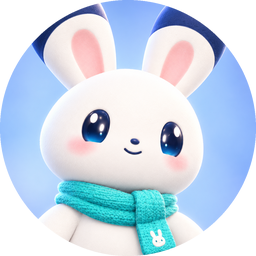
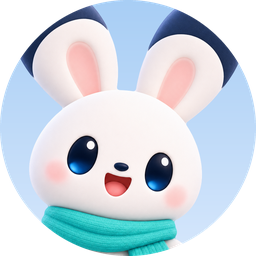
The live 3D Mochi tuned toward the newer art, with the same model and rig: deep navy ears, deeper scarf, darker eyes and a resting open smile (D130)

diff --git a/Resources/Companions3D/characters/mochi.js b/Resources/Companions3D/characters/mochi.js
@@ -29,9 +29,9 @@ export default {
       float turq = smoothstep(0.07, 0.18, min(s.g - s.r, s.b - s.r));
       float pink = earM * smoothstep(0.03, 0.08, s.r - s.g) * (1.0 - navy);
       c = vec3(0.93, 0.925, 0.92);
-      c = mix(c, tex * vec3(0.97, 1.03, 1.03), turq);
+      c = mix(c, tex * vec3(0.42, 0.74, 0.74), turq);
       c = mix(c, mix(tex, vec3(1.0, 0.62, 0.68), 0.35), pink);
-      c = mix(c, vec3(0.010, 0.030, 0.19), navy);
+      c = mix(c, vec3(0.006, 0.012, 0.06), navy);
       float plushH = tri(uPlush, p, nR, 6.5);
       float knitH = tri(uKnit, p * vec3(1.0, 1.25, 1.0), nR, 4.2);
       bumpH = mix(plushH * 0.26, knitH, turq) * 0.012;
@@ -39,7 +39,7 @@ export default {
       c *= mix(0.985 + 0.03 * plushH, 0.72 + 0.4 * knitH, turq);
       rough = mix(0.8, 0.93, turq);
       // White velvet sheen would wash the navy tips out to lavender: tint it down there.
-      sheenTint = mix(vec3(1.0), vec3(0.12, 0.16, 0.35), navy);
+      sheenTint = mix(mix(vec3(1.0), vec3(0.3, 0.5, 0.5), turq), vec3(0.05, 0.07, 0.14), navy);
       inner = 1.0 - 0.6 * navy;
       // Light glowing through the thin ears, warm and pink at the inner ear.
       glow = earM * (1.0 - navy) * mix(vec3(0.05, 0.035, 0.035), vec3(0.11, 0.045, 0.06), pink);`,
@@ -52,10 +52,23 @@ export default {
     region: (x, y, z) => z > 0.08 && y > -0.3 && y < 0.26,
     // Nose and mouth keep a clear gap: the mouth never reaches up to the nose.
     layout: {
-      eye: { x: 0.2, y: -0.052, w: 0.148, h: 0.194, depth: 0.036 },
-      nose: { y: -0.116, w: 0.044, h: 0.027 },
-      mouth: { y: -0.168 },
-      blush: { x: 0.3, y: -0.142, w: 0.105, h: 0.062 },
+      eye: { x: 0.195, y: -0.05, w: 0.165, h: 0.224, depth: 0.042, sink: 0.34 },
+      nose: { y: -0.116, w: 0.05, h: 0.03, color: '#0a1638' },
+      mouth: { y: -0.176, scale: 1.35, tongue: 0.8 },
+      blush: { x: 0.31, y: -0.146, w: 0.105, h: 0.062 },
+    },
+    iris: { deep: [0.002, 0.006, 0.028], rim: [0.005, 0.016, 0.08], glow: [0.02, 0.2, 0.62], glowAmt: 0.4, env: 0.08, coat: 0.12 },
+    // A clean eye, as in the brand art: one big highlight and a small one. On this dark iris a sparkle's cross reads as a scratch.
+    twinkle: 'never',
+    colors: { mouth: '#d24d5c', mouthDeep: '#9c2a3b', tongue: '#ffa3a8', tongueEdge: '#f57f88', lip: '#7a1d30' },
+    // At rest and when smiling, an open smile, as in the brand art (D130). Every other feeling is the shared one.
+    moods: {
+      neutral: { mouthOpen: 0.42, smile: 0.95, mouthWidth: 0.5, blush: 0.8 },
+      smile: { mouthOpen: 0.46, smile: 1, mouthWidth: 0.52, blush: 0.85, lidBottom: 0 },
+      // The lower lid's edge is straight: on these bigger eyes it reads as a cut.
+      happy: { lidBottom: 0 },
+      shy: { lidBottom: 0 },
+      oops: { lidBottom: 0 },
     },
   },
 

diff --git a/Resources/Companions3D/engine/face.js b/Resources/Companions3D/engine/face.js
@@ -6,6 +6,8 @@
 //    `layout.brow: false` paints no brows. `paintRoughness` makes the painted layer matte (felt, linen,
 //    stone), `layout.mouth.cat` a cat's ω whenever it smiles closed, and `twinkle: false` drops the idle
 //    twinkle cross (engine.js) where only round highlights belong.
+//    Also: `moods` changes a feeling's face for this character (Mochi rests with an open smile), `twinkle: 'never'` drops every
+//    sparkle's cross, `iris.env` and `iris.coat` quiet an eye's reflections, `mouth.tongue` sets how far down the tongue rests.
 //  - screen: everything glows on a dark visor (Spark): eyes, lids and mouth are light, painted;
 //    `mouthGlow` gives the mouth a light of its own (a pink smile under blue-white eyes),
 //    `layout.mouth.scale` sizes it, and `softGlow` blurs the halos smoothly (the stepped passes read as rings up close).
@@ -359,9 +361,10 @@ export class Face {
     g.addColorStop(0, C.mouthDeep); g.addColorStop(1, C.mouth);
     ctx.fillStyle = g; ctx.fill(outline);
     const tg = ctx.createRadialGradient(cx, top + h * 0.95, 0, cx, top + h * 0.95, w * 0.42);
-    tg.addColorStop(0, C.tongue); tg.addColorStop(1, '#e8566a');
+    tg.addColorStop(0, C.tongue); tg.addColorStop(1, C.tongueEdge ?? '#e8566a');
     ctx.fillStyle = tg;
-    ctx.beginPath(); ctx.ellipse(cx, top + h * 0.98, w * 0.34, h * 0.4, 0, 0, Math.PI * 2); ctx.fill();
+    // `mouth.tongue`: how far down it rests, as a share of the mouth's height.
+    ctx.beginPath(); ctx.ellipse(cx, top + h * (M.tongue ?? 0.98), w * 0.34, h * 0.4, 0, 0, Math.PI * 2); ctx.fill();
     ctx.restore();
     // A thin lip line around the mouth itself (never around the tongue).
     ctx.strokeStyle = C.lip; ctx.lineWidth = 4.5 * Math.sqrt(scale);
@@ -474,12 +477,12 @@ export class Face {
  */
 export function buildEye(side, eye, iris = {}) {
   const { w, h, depth } = eye;
-  const I = { deep: [0.004, 0.011, 0.045], rim: [0.015, 0.045, 0.16], glow: [0.03, 0.32, 0.7], glowAmt: 0.45, ...iris };
+  const I = { deep: [0.004, 0.011, 0.045], rim: [0.015, 0.045, 0.16], glow: [0.03, 0.32, 0.7], glowAmt: 0.45, env: 0.55, coat: 1, ...iris };
   const v3 = (a) => `vec3(${a.map((x) => x.toFixed(4)).join(',')})`;
   const geo = new THREE.SphereGeometry(1, 48, 32);
   geo.scale(w / 2, h / 2, depth);
   const mat = new THREE.MeshPhysicalMaterial({
-    color: 0x0b2d5b, roughness: 0.18, metalness: 0, clearcoat: 1, clearcoatRoughness: 0.04, envMapIntensity: 0.55,
+    color: 0x0b2d5b, roughness: 0.18, metalness: 0, clearcoat: I.coat, clearcoatRoughness: 0.04, envMapIntensity: I.env,
   });
   const u = {
     uLid: { value: new THREE.Vector4(0, 0, 0, 0) },   // top, top slant, bottom, bottom slant

diff --git a/Resources/Companions3D/engine/engine.js b/Resources/Companions3D/engine/engine.js
@@ -291,7 +291,10 @@ export class Companion {
   on(ev, fn) { (this.listeners[ev] ||= []).push(fn); }
   emit(ev, data) { (this.listeners[ev] || []).forEach((f) => f(data)); }
 
-  setMood(name) { this.mood = name; this.moodFace = moodFace(name); }
+  /** A feeling's face, with what this character changes about it (`face.moods`: Mochi rests with an open smile). */
+  faceOf(name) { return { ...moodFace(name), ...this.C.face?.moods?.[name] }; }
+
+  setMood(name) { this.mood = name; this.moodFace = this.faceOf(name); }
 
   /** The one-shot moves this character has (the shared set and its own, minus what its body can't do). */
   get moves() { return [...Object.keys(ACTIONS), ...Object.keys(this.C.actions || {})].filter((n) => !(this.C.skip || []).includes(n)); }
@@ -822,10 +825,10 @@ export class Companion {
 
   faceStep(dt, layers, P, speechOpen) {
     // Target: mood, a passing smile, then each move's face on top by its weight.
-    let target = { ...(this.flash && this.time < this.flash.until ? moodFace(this.flash.mood) : this.moodFace) };
+    let target = { ...(this.flash && this.time < this.flash.until ? this.faceOf(this.flash.mood) : this.moodFace) };
     let curMood = this.flash && this.time < this.flash.until ? this.flash.mood : this.mood;
     for (const [lf, w] of layers) {
-      const lt = { ...(lf.mood ? moodFace(lf.mood) : target), ...lf };
+      const lt = { ...(lf.mood ? this.faceOf(lf.mood) : target), ...lf };
       for (const k of Object.keys(target)) {
         if (typeof lt[k] !== 'number') continue;
         // Eyes are either open or shut for a feeling: half-blended lids read as smug, so they
@@ -867,8 +870,8 @@ export class Companion {
       const lid = e.side > 0 ? f.lidL : f.lidR;
       e.uniforms.uLid.value.set(lid, f.lidSlant, f.lidBottom, f.lidBottomSlant);
       e.uniforms.uGaze.value.set(this.gaze.x, this.gaze.y);
-      // `face.twinkle: false`: no idle twinkle (a thin cross over a dark iris or a lens), only real sparkles.
-      e.uniforms.uSparkle.value = this.C.face.twinkle === false && f.sparkle < 0.5 ? 0 : clamp(f.sparkle);
+      // `face.twinkle`: false, no idle twinkle (a thin cross over a dark iris or a lens), only real sparkles; 'never', none.
+      e.uniforms.uSparkle.value = this.C.face.twinkle === 'never' || (this.C.face.twinkle === false && f.sparkle < 0.5) ? 0 : clamp(f.sparkle);
       const open = f.eyeOpen;
       e.mesh.scale.set(1 + (open - 1) * 0.55, open, 1);
       e.mesh.position.set(this.gaze.x * 0.012, this.gaze.y * 0.008, 0);

diff --git a/docs/STATUS.md b/docs/STATUS.md
@@ -44,7 +44,7 @@ snapshots. **Playtime 1.0.0-snapshot.9** needs Sidefolk snapshot 867, and a copy
   with the theme's sky behind the toolbar. All ten languages. Verified: tests (add-on tests skipped with an empty
   `SIDEFOLK_ADDONS_REPO`), `sidefolk theme check`, snapshots in light, dark, Arabic and German, a real window, the move off the old
   id, and arrow keys against a control. Not verified: real clicks and drag, VoiceOver, Reduce Transparency, Increase Contrast.
-  Paper Garden, Night Studio and Marshmallow moved to the gallery (`team/themes-two` in sidefolk-addons, unpublished); the gallery must publish before this app ships. Mochi's portrait and full-body images are redrawn in the newer design. Next: founder tries it; a release needs their yes.
+  Paper Garden, Night Studio and Marshmallow moved to the gallery (`team/themes-two` in sidefolk-addons, unpublished); the gallery must publish before this app ships. Mochi's brand images are redrawn in the newer design, and the live 3D Mochi is tuned toward them with the same model: all feelings and big moves reviewed, not yet watched in the running app. The edge check flags petting and the flip with or without this change (older issue). Next: founder tries it; a release needs their yes.
 
 - **Dev ideas (`sandbox/sidefolk-dev-ideas.md`), for the founder to look at:** batches 1 to 6 are done (HISTORY's top entries). **For the founder:** [the notebook proposal](research/notebook-proposal.md) needs a choice; [the wake word's measurements](research/wake-word-prototype.md) recommend not building it yet, and a minute's microphone test at the Mac decides it; windows opening in another app's full-screen space were diagnosed, not proven, and wait on the founder's confirmation of the case. D115 keeps D49's return of a reminder when its task reopens, where the handover recommended it stay cancelled.
 - **For the founder, from snapshot B (D101):** the reaction props the app still draws (D101's "Left for the founder"); in two-player rock, paper, scissors the reveal still says "You" and the companion's name with a winner's glow, as the old code did, against D96. Checks and what wasn't run: HISTORY's top entry. **Open, small:** with a surface panel open `snap` lists a 40×40 fully transparent `FloatingPanel` near the companion; not identified.

diff --git a/.claude/skills/sidefolk-3d-character/SKILL.md b/.claude/skills/sidefolk-3d-character/SKILL.md
@@ -231,7 +231,9 @@ no animation frames while hidden: use `companion.step(seconds)` (renders), not w
 the canvas has no size: give the tab one with `resize_window` first. Read results from files the page saves into
 `build/companions-3d/`, not from screenshots.
 
-Go through all of these before showing it; each caught a real mistake:
+Go through all of these before showing it; each caught a real mistake. When a look changes on an existing companion, run the
+faces close up at every mood too (a thin sparkle cross and a flat lower lid only showed there, on Mochi), and run a gate that fails
+against an untouched copy before blaming your change:
 1. **The sheet grid**: `(await import('./sheet.js')).sheet(companion)`: 16 feelings, moves and postures. Iterate on
    shape, colours, eye size and placement, mouth, brows, blush and postures until it reads as the same character.
 2. **Turnaround**: `turnaround(companion)` beside the sheet's turnaround row (front, ¾, side, back).

diff --git a/docs/DECISIONS.md b/docs/DECISIONS.md
@@ -3765,3 +3765,5 @@ to lose it by hiding snapshots (`ThemeSuccession.toFetch`, `fetchThemeThatMoved`
 tries again, and a whisper says so once. So the gallery must publish them before an app without them ships.
 
 **Brand art:** Mochi's solo portrait and full-body image follow the newer design too (masters `rabbit-portrait.png`, `mascot-mochi.png`; the old ones in `Brand/archive/mochi-2026-10/`). The app icon stays as approved.
+
+**The live 3D Mochi follows it, with the same model and rig:** deep navy ear tips, a deeper scarf, bigger darker eyes with quieter reflections, and an open smile at rest (`face.moods`, for Mochi only). Its portrait and avatar are redone. Its build stays slimmer than the art, since that would need a new model. The 2D Mochi stays the flat drawn style.
